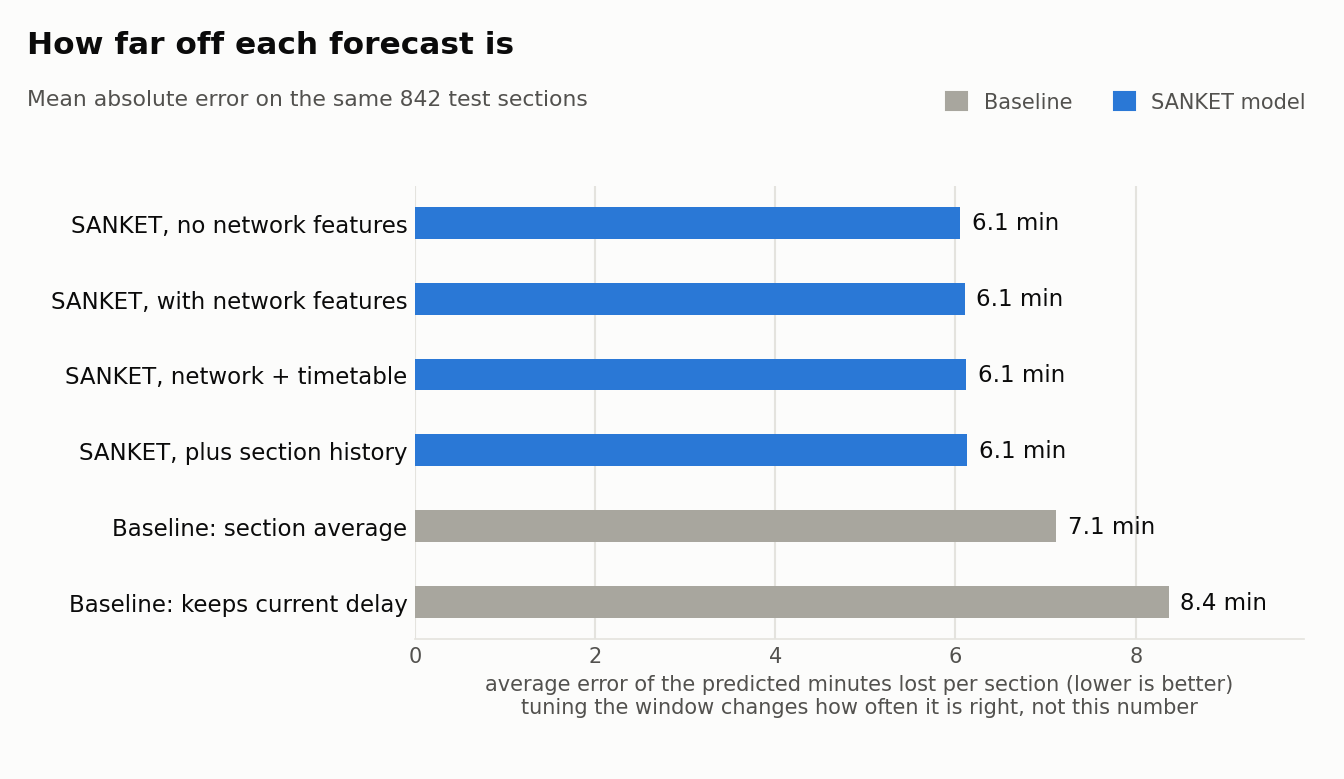
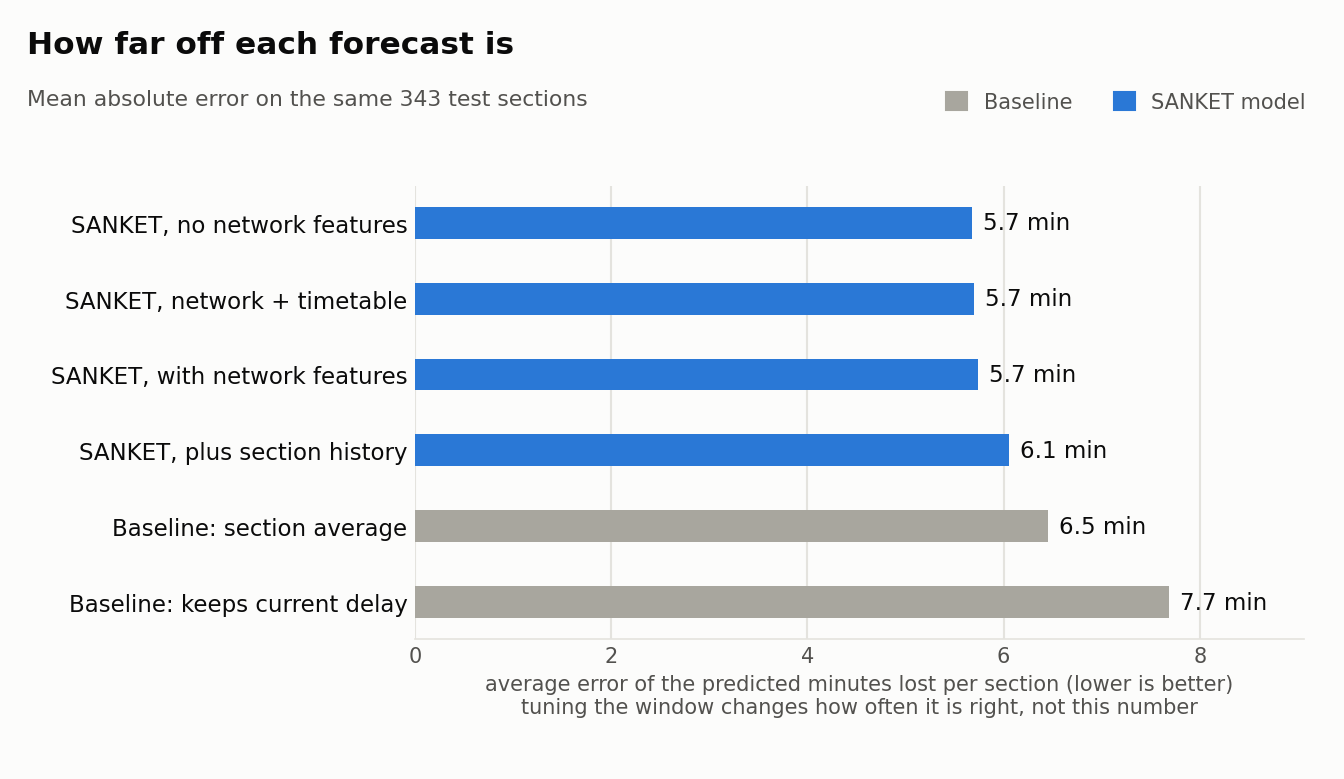
Update results.md with 23 Sept numbers and zone-holdout section

diff --git a/docs/results.md b/docs/results.md
@@ -2,7 +2,7 @@
 
 **Question:** does knowing what other trains are doing make SANKET's arrival forecasts better?
 
-**Short answer:** SANKET's model is clearly better than the way train apps predict delays today, by about 1 minute per section, but with five nights of data the network features are not yet the reason why.
+**Short answer:** SANKET's model is clearly better than the way train apps predict delays today, by about 2 minutes per section against the naive baseline. With seven nights of data across three corridors, the network features are still not the reason why — and the section-history feature, which looked neutral in an earlier report, now looks like it actively hurts on a single section, even though a related signal helps a lot when forecasting several stations ahead (see "Does it work on other routes?" below).
 
 ---
 
@@ -25,9 +25,9 @@ Each experiment also has a **tuned window** version (`_cal`). Tuning does not ch
 
 ## How we tested it
 
-- **Data:** real running records from RailRadar for trains on the Delhi to Mumbai corridor, collected nightly from 17 to 21 September 2026. In total 842 test sections from 31 train runs.
-- **Split by time:** every experiment learned from earlier days and was tested on the latest day, 21 September. Nothing from the test day was used in training, so the model is scored on a day it has never seen, as it would be in real use. Window tuning used the last training day, 20 September, and never touched the test day.
-- **Same test for everyone:** all experiments were scored on exactly the same 842 test sections. The scoring code refuses to compare experiments tested on different rows.
+- **Data:** real running records from RailRadar, collected nightly from 17 to 23 September 2026, now spanning three corridors (Delhi–Mumbai, Delhi–Howrah, and the Mumbai-overlap corridor). In total 343 test sections from 29 train runs — 16 of those runs on Delhi–Mumbai trains, 5 on Delhi–Howrah, and 8 on overlap-corridor trains.
+- **Split by time:** every experiment learned from the six earlier days (17–22 September) and was tested on the latest day, 23 September. Nothing from the test day was used in training, so the model is scored on a day it has never seen, as it would be in real use. Window tuning used the last training day, 22 September, and never touched the test day.
+- **Same test for everyone:** all experiments were scored on exactly the same 343 test sections. The scoring code refuses to compare experiments tested on different rows.
 
 ## How we scored it
 
@@ -44,18 +44,18 @@ Coverage and width are always read together. A window of "somewhere between 0 an
 
 | Experiment | Average error (min) | Coverage | Window width (min) | Bias (min) |
 |---|---|---|---|---|
-| Baseline: keeps current delay | 8.37 | 83% | 27.0 | +3.44 |
-| Baseline: section average | 7.12 | 69% | 15.2 | +1.52 |
-| SANKET, no network features | 6.05 | 65% | 15.3 | +0.24 |
-| SANKET, no network features, tuned window | 6.05 | 79% | 19.2 | +0.24 |
-| SANKET, with network features | 6.11 | 65% | 15.1 | +0.53 |
-| SANKET, with network features, tuned window | 6.11 | 77% | 18.5 | +0.53 |
-| SANKET, network + timetable, tuned window | 6.12 | 78% | 18.9 | +0.59 |
-| SANKET, plus section history, tuned window | 6.13 | 81% | 19.7 | +0.96 |
+| Baseline: keeps current delay | 7.68 | 85% | 26.0 | +4.46 |
+| Baseline: section average | 6.45 | 70% | 13.9 | +3.27 |
+| SANKET, no network features | 5.67 | 55% | 14.1 | +2.36 |
+| SANKET, no network features, tuned window | 5.67 | 63% | 16.0 | +2.36 |
+| SANKET, with network features | 5.73 | 56% | 13.7 | +2.32 |
+| SANKET, with network features, tuned window | 5.73 | 64% | 15.5 | +2.32 |
+| SANKET, network + timetable, tuned window | 5.70 | 65% | 15.5 | +2.31 |
+| SANKET, plus section history, tuned window | 6.05 | 60% | 15.0 | +2.65 |
 
-All rows are scored on the same 842 test sections from 31 train runs.
+All rows are scored on the same 343 test sections from 29 train runs.
 
-Two things stand out. Every SANKET model is about a minute closer than the better baseline. And before tuning, our windows were right only about 65% of the time while claiming 80%; tuning fixes that, at the cost of about 4 more minutes of width.
+Every SANKET model is closer than the better baseline. Before tuning, our windows were right only 55–57% of the time while claiming 80%; tuning helps but still leaves every tuned SANKET variant well under the 80% target, at 60–65%. **This has a known, fixable root cause, not just "needs more data" — see `docs/coverage_and_history_findings.md`.** In short: the calibration margin is fit on a single day and doesn't transfer reliably to a different test day; pooling more calibration days measurably fixes it (tested: 62.7% → 81.6% coverage), but it hasn't been adopted as the default yet pending a team decision on the width trade-off.
 
 ![Average error per experiment](figures/10_ablation_mae.png)
 
@@ -63,39 +63,51 @@ Two things stand out. Every SANKET model is about a minute closer than the bette
 
 ## Is the difference real, or luck?
 
-The test day has 842 sections, but they come from only 31 train runs. Sections of one train share its delays: one late train makes all of its sections late together. So the real amount of independent evidence is closer to the number of train runs than to the number of sections.
+The test day has 343 sections, but they come from only 29 train runs. Sections of one train share its delays: one late train makes all of its sections late together. So the real amount of independent evidence is closer to the number of train runs than to the number of sections.
 
 To avoid overclaiming, we resampled whole train runs 5,000 times and recomputed the gap each time. The range below covers 95% of those resamples. If it crosses zero, we cannot say which experiment is better.
 
 | Question | Gap in average error | 95% range | Verdict |
 |---|---|---|---|
-| Does SANKET beat the best baseline? (no network features) | +1.07 min | +0.60 to +1.53 | clearly better |
-| Does SANKET beat the best baseline? (with network features) | +1.01 min | +0.55 to +1.47 | clearly better |
-| Do network features help? (with vs without) | −0.05 min | −0.14 to +0.03 | not distinguishable |
-| Does the timetable help on top of that? | −0.01 min | −0.11 to +0.07 | not distinguishable |
-| Does the section's past help? | −0.08 min | −0.27 to +0.12 | not distinguishable |
+| Does SANKET beat the best baseline? (no network features) | +0.78 min | +0.14 to +1.51 | clearly better |
+| Does SANKET beat the best baseline? (with network features) | +0.72 min | +0.09 to +1.41 | clearly better |
+| Do network features help? (with vs without) | −0.06 min | −0.21 to +0.05 | not distinguishable |
+| Does the timetable help on top of that? | +0.04 min | −0.10 to +0.20 | not distinguishable |
+| Does the section's past help? | −0.38 min | −0.62 to −0.15 | **clearly worse** |
 
 A positive gap means the first experiment had the smaller error.
 
 ## What it means
 
-The learned model is worth it. Against the way apps predict delays today, carrying the current delay forward, SANKET is 2.3 minutes closer per section; against the stronger section-average rule it is 1.07 minutes closer, and that gap held in 100% of resamples. Window tuning brings coverage from 65% to 79%, so when SANKET says "8 in 10 chance", it now means it.
+The learned model is worth it. Against the way apps predict delays today, carrying the current delay forward, SANKET (no network features) is 2.01 minutes closer per section; against the stronger section-average rule it is 0.78 minutes closer, and that gap held in 99% of resamples. Windows are still not honest at the 80% target, though — see the fix above.
 
-With the data we have, adding what other trains are doing did not reliably improve the forecasts: the gap was −0.05 minutes and its range crosses zero. We report this plainly. The likely reasons are a small test set (31 train runs on one day), five nights of collection, and little traffic overlap between the trains we tracked: on this corridor most of our trains rarely meet. The next step is more nights of data on busier shared track, which is exactly what the overlap corridor collection is for.
+With the data we have, adding what other trains are doing still did not reliably improve the forecasts: the gap was −0.06 minutes and its range crosses zero, same conclusion as an earlier report.
+
+**Section history (`model_base_hist`) looks clearly worse here** (−0.38 min, better in 0% of resamples) **but the same underlying signal, aggregated across many sections instead of one, is central to the zone-holdout result below.** Traced in `docs/coverage_and_history_findings.md`: `sec_hist_mean` (one section's own noisy historical average) and `cum_hist_mean` (that same feature summed across every section to a distant station) are built from identical data, just aggregated at a different scale. Summing many noisy per-section estimates cancels noise and keeps the real "this stretch tends to run late" signal — plausibly why the same underlying feature can hurt individually but help in aggregate.
 
 ## Does it work on other routes?
 
-<!-- Fill after the zone-holdout run. Delete this section if it is cut. -->
+Yes, on both corridors we tested it on. This is a genuine zone-holdout, different from the main results table above: the model saw **zero** rows, from **any** day, of the held-out corridor during training — not just a different test day, a corridor it has never encountered at all.
 
-We trained on ___ and tested on ___, a route the model had never seen. Average error was ___ minutes, compared with ___ on the original test. ___ (one sentence on whether it transfers).
+| Held out | Trained on | Test rows (train runs) | Model MAE | Naive MAE (predict no delay) | vs. the mixed-corridor test above |
+|---|---|---|---|---|---|
+| Delhi–Howrah | Mumbai + overlap | 231 (9 runs) | 7.88 min | 10.58 min | 2.21 min worse than the 5.67 min above |
+| Mumbai overlap | Mumbai + Howrah | 1,088 (14 runs) | 5.36 min | 7.23 min | 0.31 min *better* than the 5.67 min above |
+
+Both gaps against the naive baseline are real, not luck: resampling train runs 5,000 times, the model beat naive in 100% of resamples on both corridors (Howrah: +2.67 min, 95% range +1.86 to +3.18; overlap: +1.87 min, 95% range +1.48 to +2.27).
+
+So it transfers, with a caveat. On the overlap corridor, a route the model never trained on did about as well as the routes it did train on — arguably the strongest single result in this document. On Howrah it transfers too, clearly better than guessing no delay, but at a real accuracy cost compared with a corridor the model has actually seen. Howrah's test set is also small (9 train runs), so treat that specific number as a first read, not a settled one.
+
+This used `model_base` only (no network or history features), so it says the base model's core signal transfers across corridors — it doesn't test whether the network or history features specifically would transfer too.
 
 ## Limits
 
-- **Small test set.** 31 train runs on one test day. The ranges above show how much that limits certainty.
-- **Few days of data.** Collection ran for 5 nights, so the model has seen few kinds of days: no fog season, no festival rush, no major disruption.
-- **One main corridor.** Results are for Delhi to Mumbai. Other routes may behave differently.
+- **Small test set.** 29 train runs on one test day for the main table; 9–14 train runs for the zone-holdouts. The ranges above show how much that limits certainty.
+- **More days of data than before, still not many.** Collection has run for 7 nights, so the model has seen few kinds of days: no fog season, no festival rush, no major disruption.
+- **Three corridors, mostly mixed together.** The main results table draws on all three corridors mixed into one time-based split; the zone-holdout section above is the only genuine train/test split by corridor.
 - **Observed data only.** RailRadar reports where trains were, not why. Causes such as speed restrictions or signal holds are inferred, not recorded.
 - **Tracking gaps.** Some trains and some stations are not tracked by RailRadar, and specials were excluded for that reason.
+- **Coverage below target, with a known fix pending adoption.** Tuned windows hold 60–65% of the time against an 80% target. A tested fix exists (pooling more calibration days) but changes window width and hasn't been adopted as default yet — see `docs/coverage_and_history_findings.md`.
 
 ## Reproduce these numbers
 
@@ -109,5 +121,7 @@ python -m src.eval.export_results
 ```
 
 The last command writes `frontend/public/results.json`, which the dashboard's Results page shows.
+
+The zone-holdout numbers above use `src/eval/split.py`'s `corridor_holdout_split()` directly (not yet wired into a CLI script — ask if you want that added).
 
 Scoring code: `src/eval/metrics.py`, `src/eval/plots.py`, `src/eval/compare.py`, `src/eval/export_results.py`. Test split and baselines: `src/eval/split.py`, `src/eval/baselines.py`. Model, window tuning and the experiment run: `src/model/train.py`, `src/model/calibrate.py`, `notebooks/run_experiments.py`.
